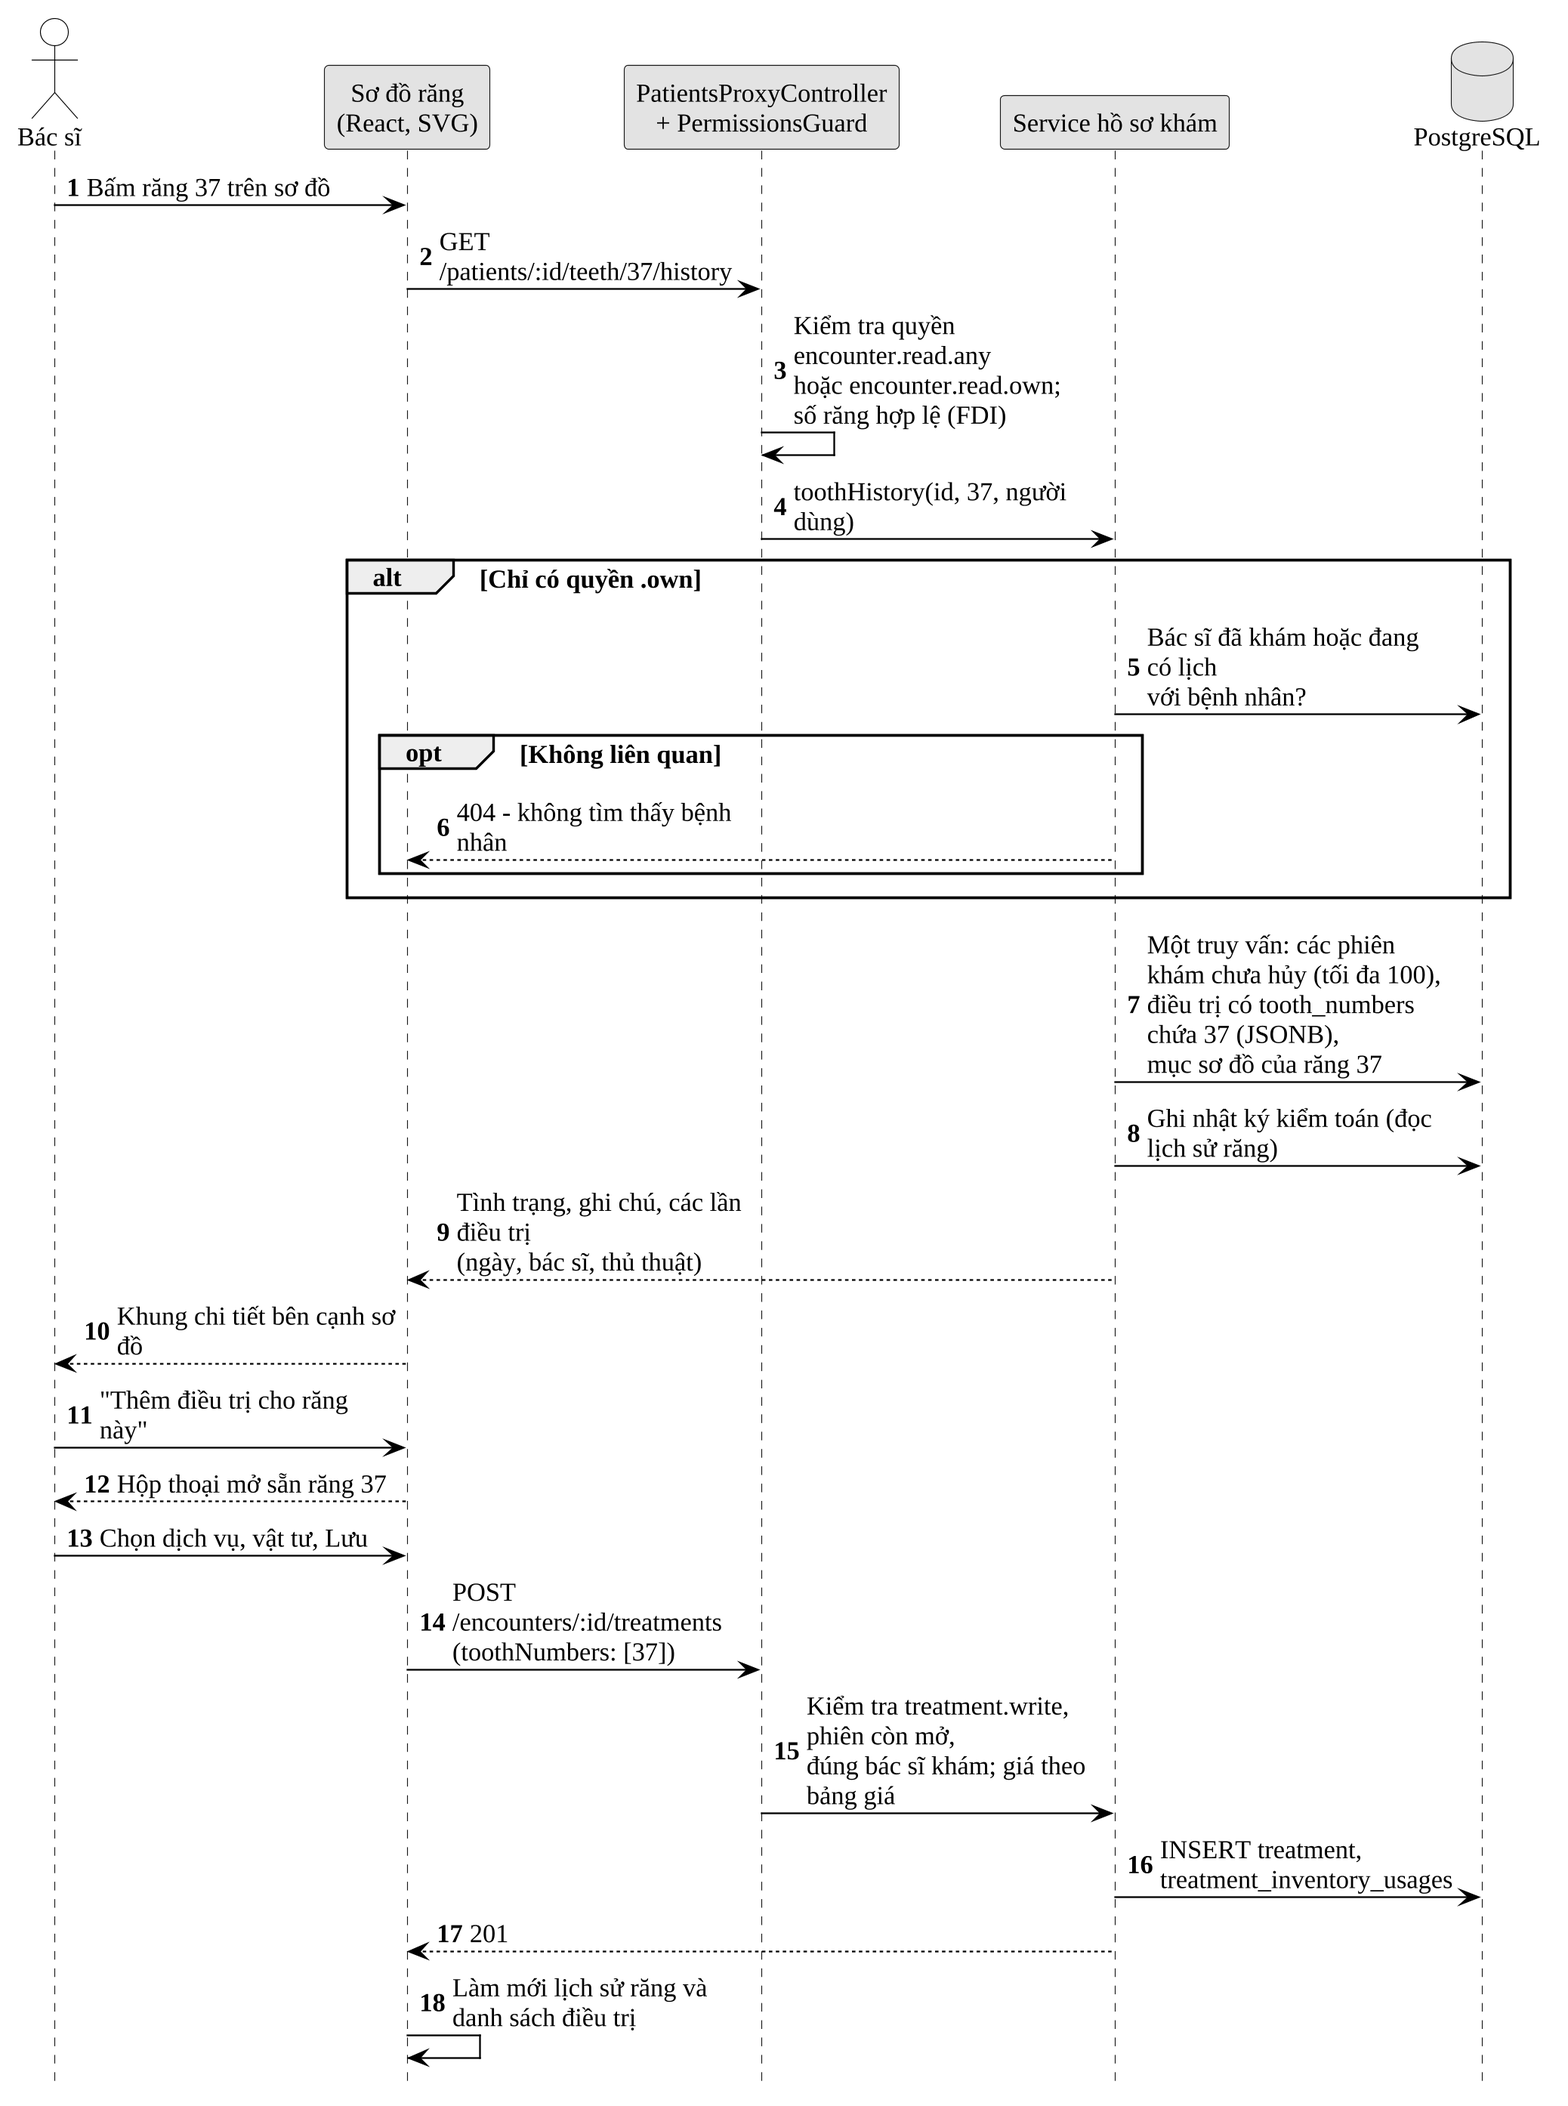
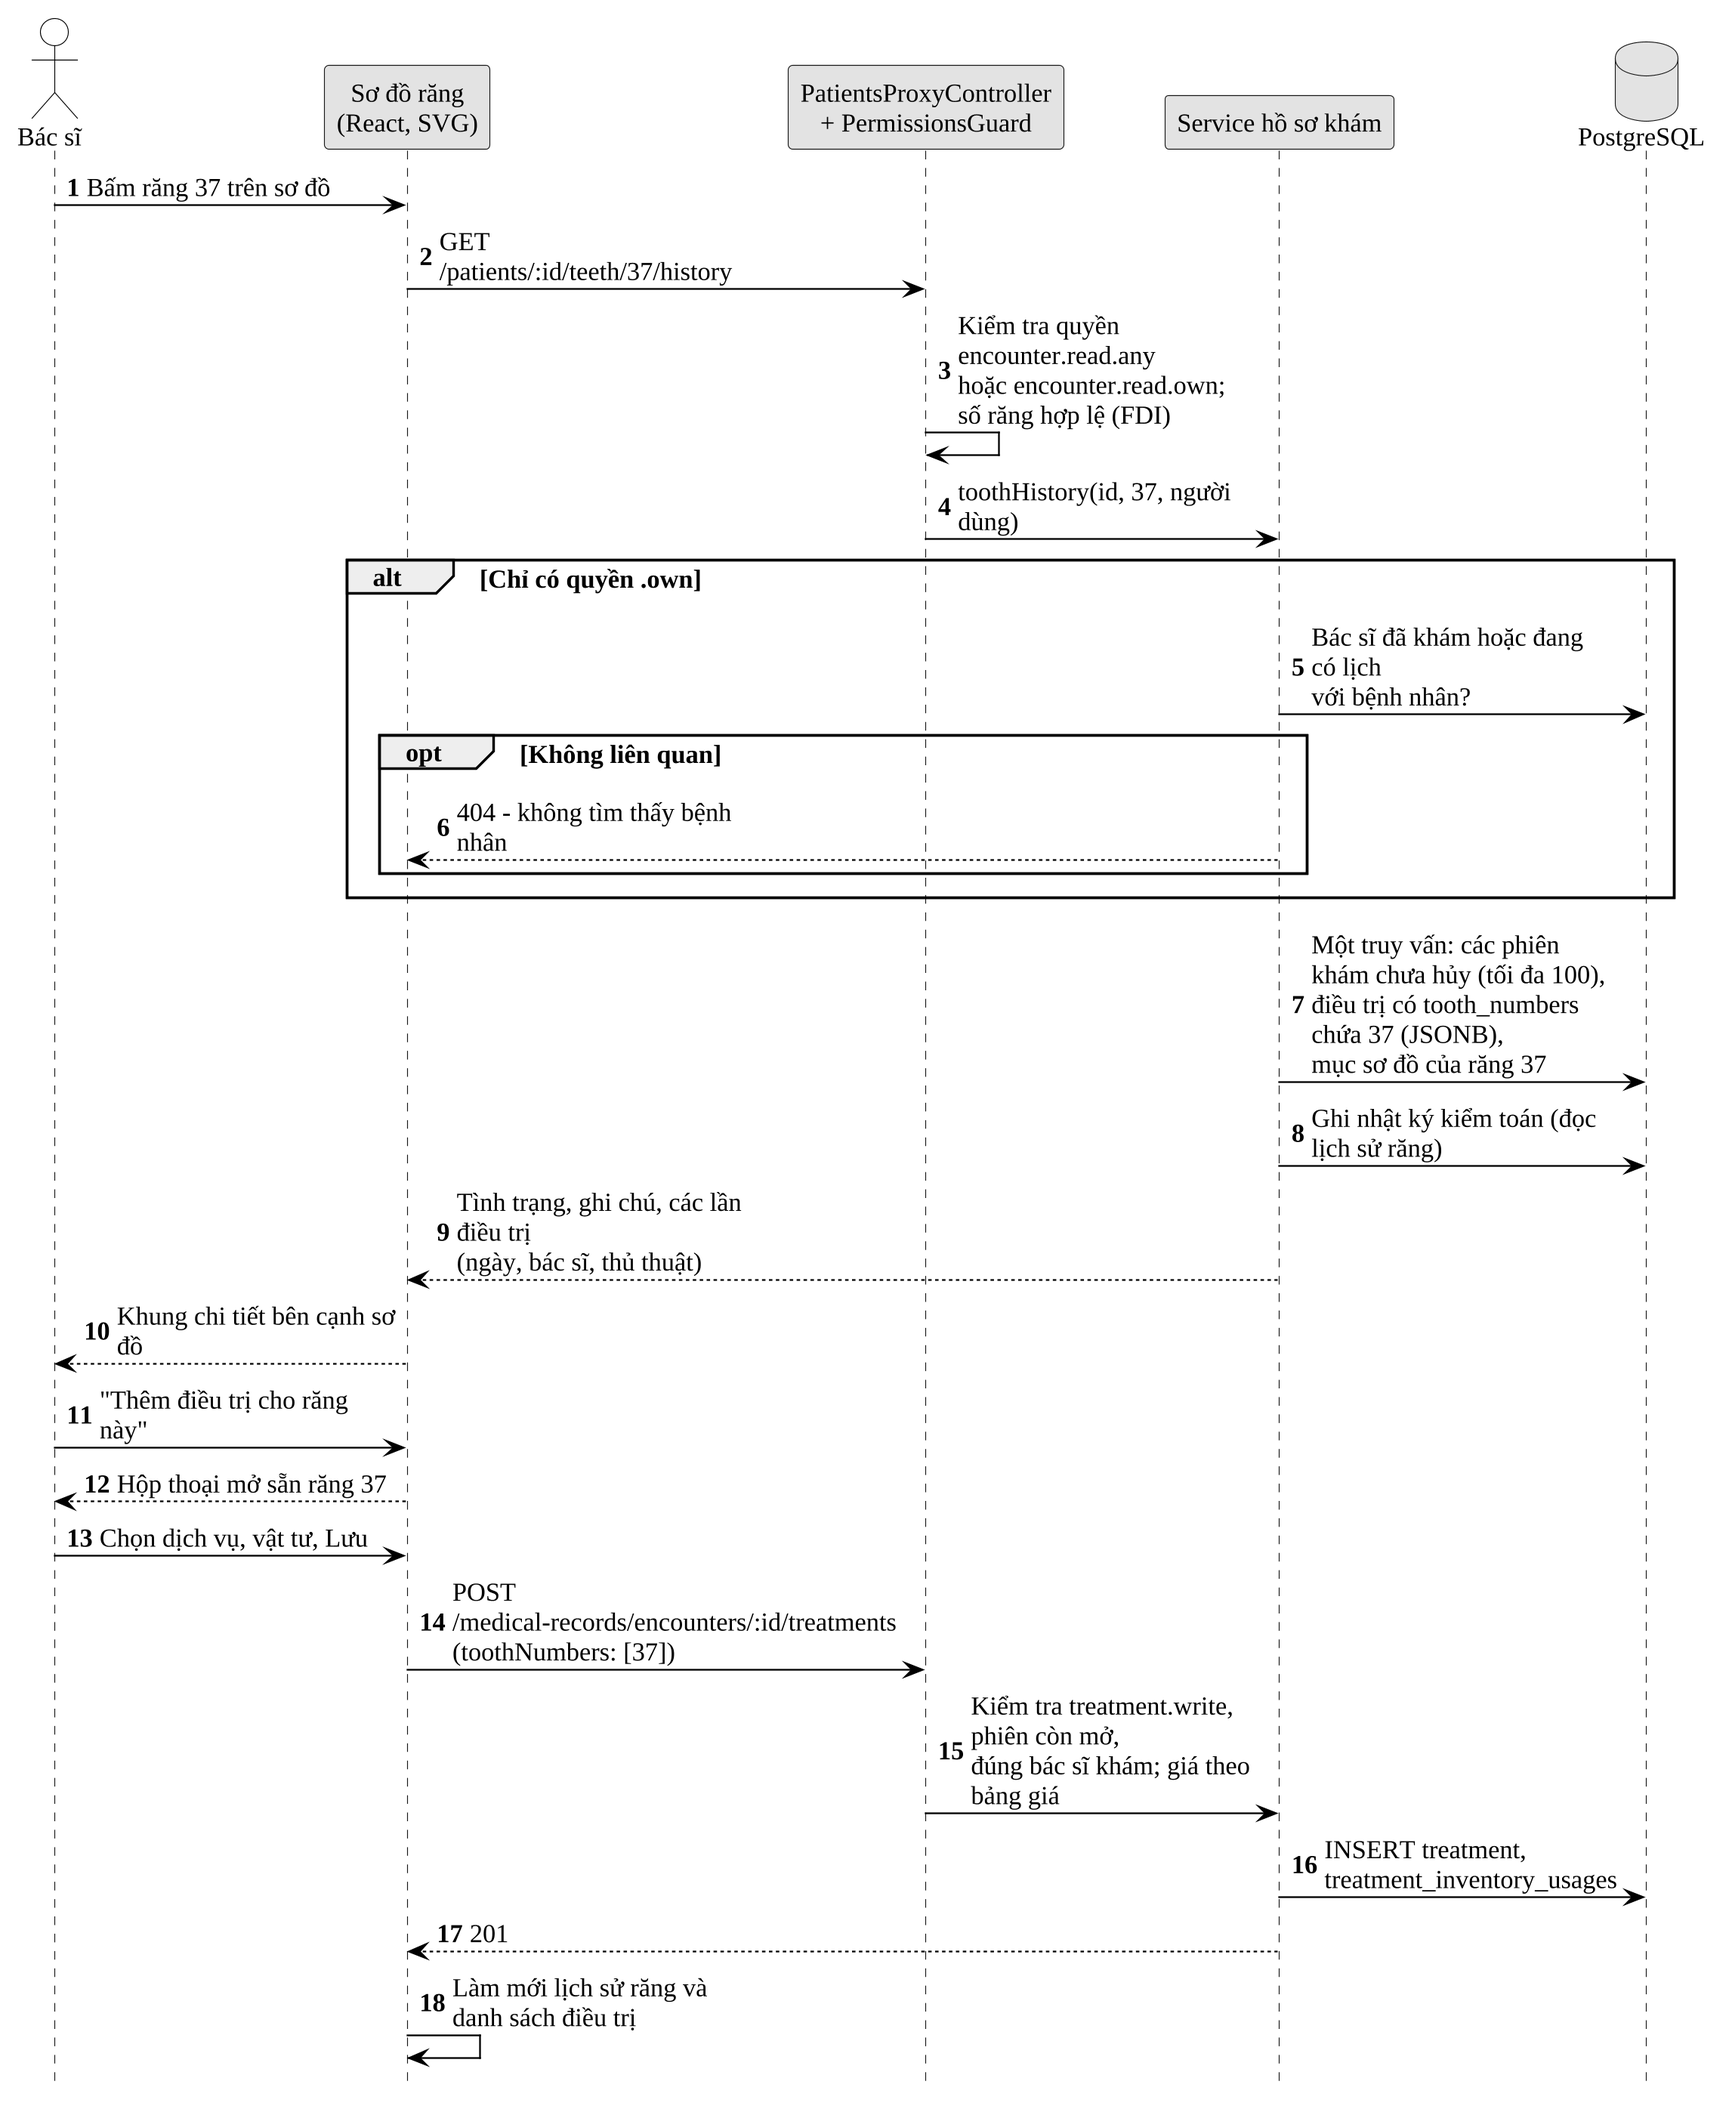
docs(thesis): sửa đường dẫn API cho khớp route thật
Claude-Session: https://claude.ai/code/session_01TBoubatqgAjjLj8yNYh2bv

diff --git a/docs/10_Thesis/bao-cao/21-phu-luc.md b/docs/10_Thesis/bao-cao/21-phu-luc.md
@@ -84,15 +84,15 @@ Bảng B.1. Các API tiêu biểu
 | POST | `/appointments` | Tạo lịch hẹn (có khóa chống trùng) |
 | POST | `/appointments/:id/check-in` | Ghi nhận khách đến |
 | GET | `/appointments/waiting-queue` | Hàng chờ |
-| POST | `/encounters/start` | Bắt đầu phiên khám |
-| PUT | `/encounters/:id/clinical-note` | Lưu ghi chú lâm sàng |
-| POST | `/encounters/:id/treatments` | Thêm điều trị |
-| POST | `/encounters/:id/dental-chart/snapshot` | Lưu sơ đồ răng |
+| POST | `/medical-records/encounters/start` | Bắt đầu phiên khám |
+| PUT | `/medical-records/encounters/:id/clinical-note` | Lưu ghi chú lâm sàng |
+| POST | `/medical-records/encounters/:id/treatments` | Thêm điều trị |
+| POST | `/medical-records/encounters/:id/dental-chart/snapshot` | Lưu sơ đồ răng |
 | GET | `/patients/:id/teeth/:fdi/history` | Lịch sử điều trị một răng |
-| POST | `/encounters/:id/close` | Đóng phiên khám |
-| POST | `/invoices/:id/issue` | Phát hành hóa đơn |
-| GET | `/invoices/:id/payment-qr` | Dữ liệu mã VietQR của hóa đơn |
-| POST | `/invoices/:id/payments` | Ghi nhận thanh toán |
+| POST | `/medical-records/encounters/:id/close` | Đóng phiên khám |
+| POST | `/billing/invoices/:id/issue` | Phát hành hóa đơn |
+| GET | `/billing/invoices/:id/payment-qr` | Dữ liệu mã VietQR của hóa đơn |
+| POST | `/billing/invoices/:id/payments` | Ghi nhận thanh toán |
 | POST | `/webhooks/bank/sepay` | Ngân hàng báo giao dịch chuyển khoản |
 | POST | `/patients/:id/history-link` | Gửi đường dẫn tra cứu lịch sử cho bệnh nhân |
 | POST | `/public/patient-history/request` | Bệnh nhân xin đường dẫn bằng số điện thoại |

diff --git a/docs/progress/session-log.md b/docs/progress/session-log.md
@@ -146,3 +146,4 @@
 - Đối chiếu biểu đồ: kho (sửa phiếu nhập: số lượng, lý do, chứng từ; không có đơn giá/nhà cung cấp), gộp hồ sơ (khớp), đồng thuận (thêm kiểm tra phiên bản thông báo cho cả 3 kênh, đổi tên Sổ đồng thuận).
 - Đối chiếu biểu đồ: danh mục (thêm ràng buộc 5 phút, giá/miễn phí, ngày phân công không ở quá khứ), thông báo (thêm loại giờ trống danh sách chờ), ảnh trang chủ khớp. Đã soát hết biểu đồ hoạt động/trạng thái Chương 3.
 - Soát biểu đồ tuần tự: đặt lịch trực tuyến (thêm nhánh khách đồng ý → lễ tân xác nhận → CONFIRMED, khách từ chối → PENDING_REVIEW, hết hạn); tra cứu lịch sử, trợ lý AI (4 bước, 9 công cụ) khớp.
+- Đối chiếu mọi đường dẫn API trong báo cáo/biểu đồ với route thật (script quét @Controller+@Get/Post…): sửa tiền tố /medical-records/encounters, /billing/invoices, /admin/roles, /admin/audit-logs ở 4 hình và Bảng B.1. Biểu đồ đặt lịch tại quầy, phân quyền khớp.

diff --git a/docs/progress/lessons.md b/docs/progress/lessons.md
@@ -87,3 +87,4 @@ Cập nhật lần cuối: 08/11/2026 (sau các PR #87 đến #95).
 - Khoảng trắng do hình cao bị đẩy trang: thu nhỏ có giới hạn tự động tốt hơn sửa tay từng hình; ảnh chụp màn hình không được thu quá 10% vì chữ UI đã nhỏ.
 - Ảnh chụp màn hình có dữ liệu theo ngày: kiểm tra ảnh không trống (chụp vào ngày có dữ liệu, không phải Chủ nhật).
 - Thống nhất thuật ngữ trong báo cáo phải theo nhãn thật trên giao diện (grep locales) trước khi đổi, không theo số lần xuất hiện.
+- Đường dẫn API trong tài liệu: kiểm bằng script so với @Controller prefix + decorator, vì dễ quên tiền tố controller.
